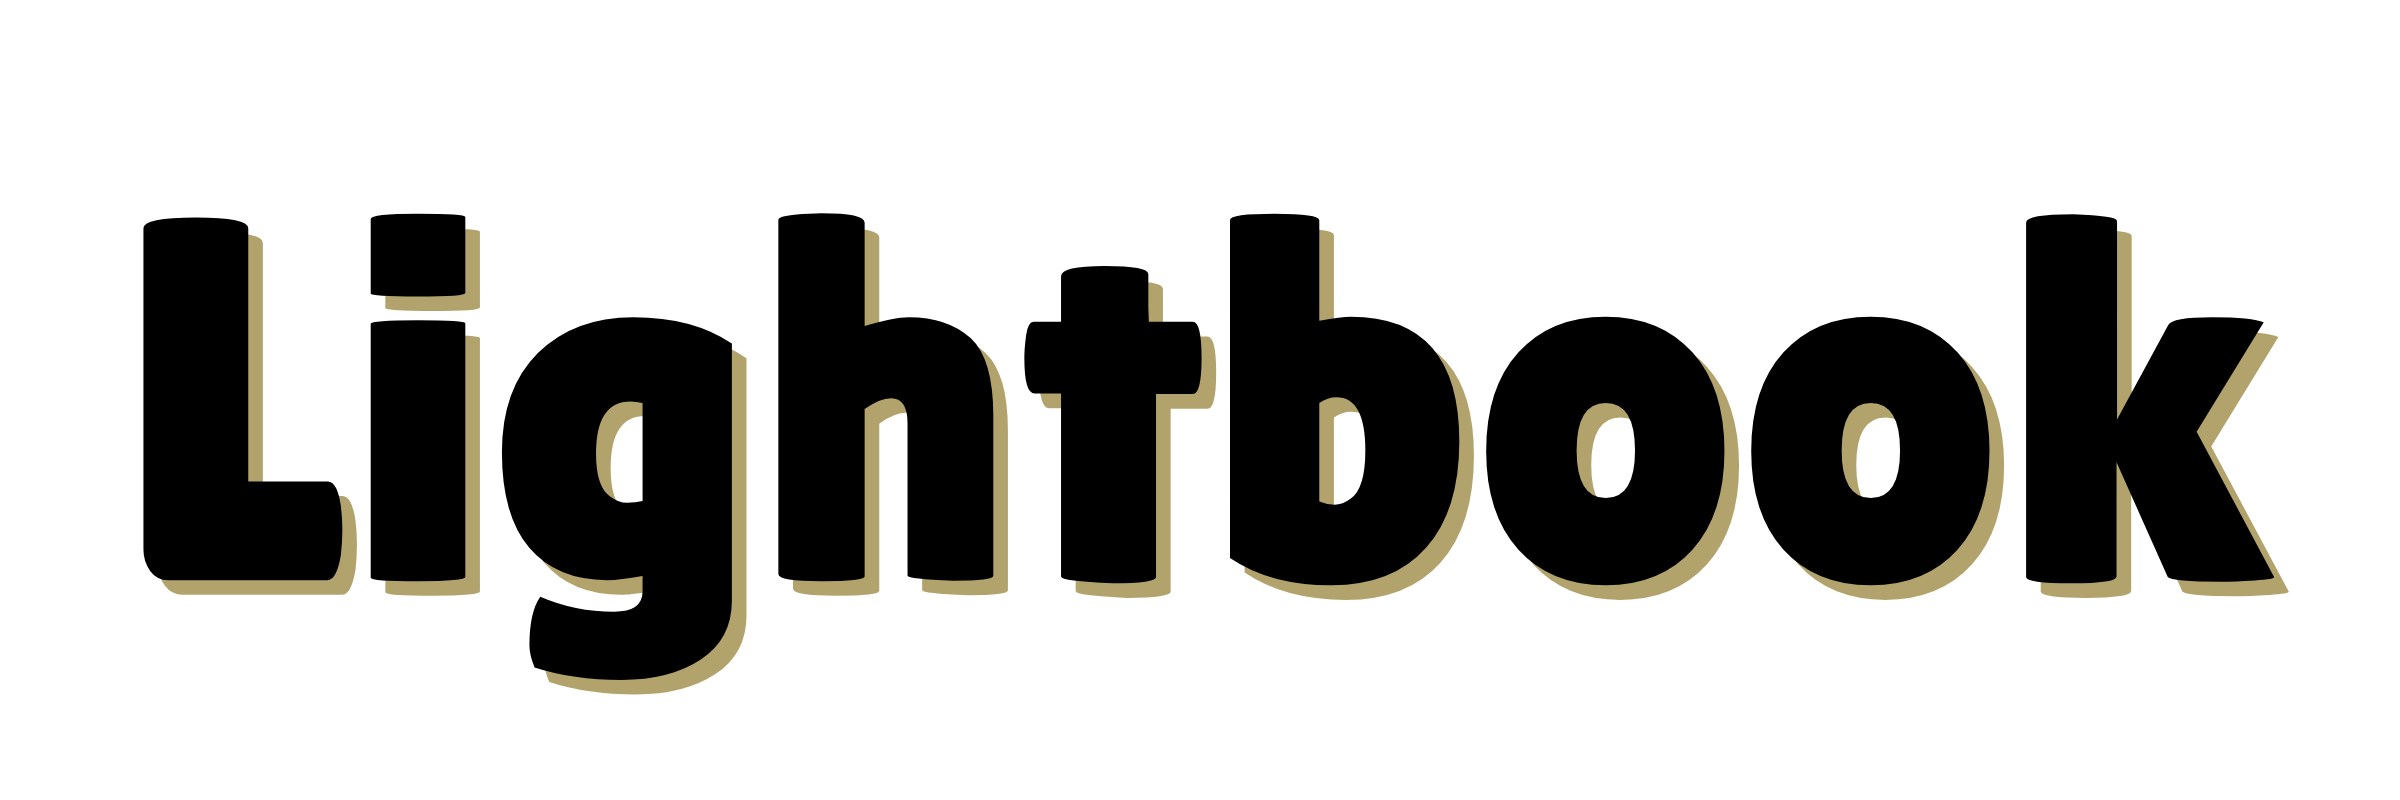
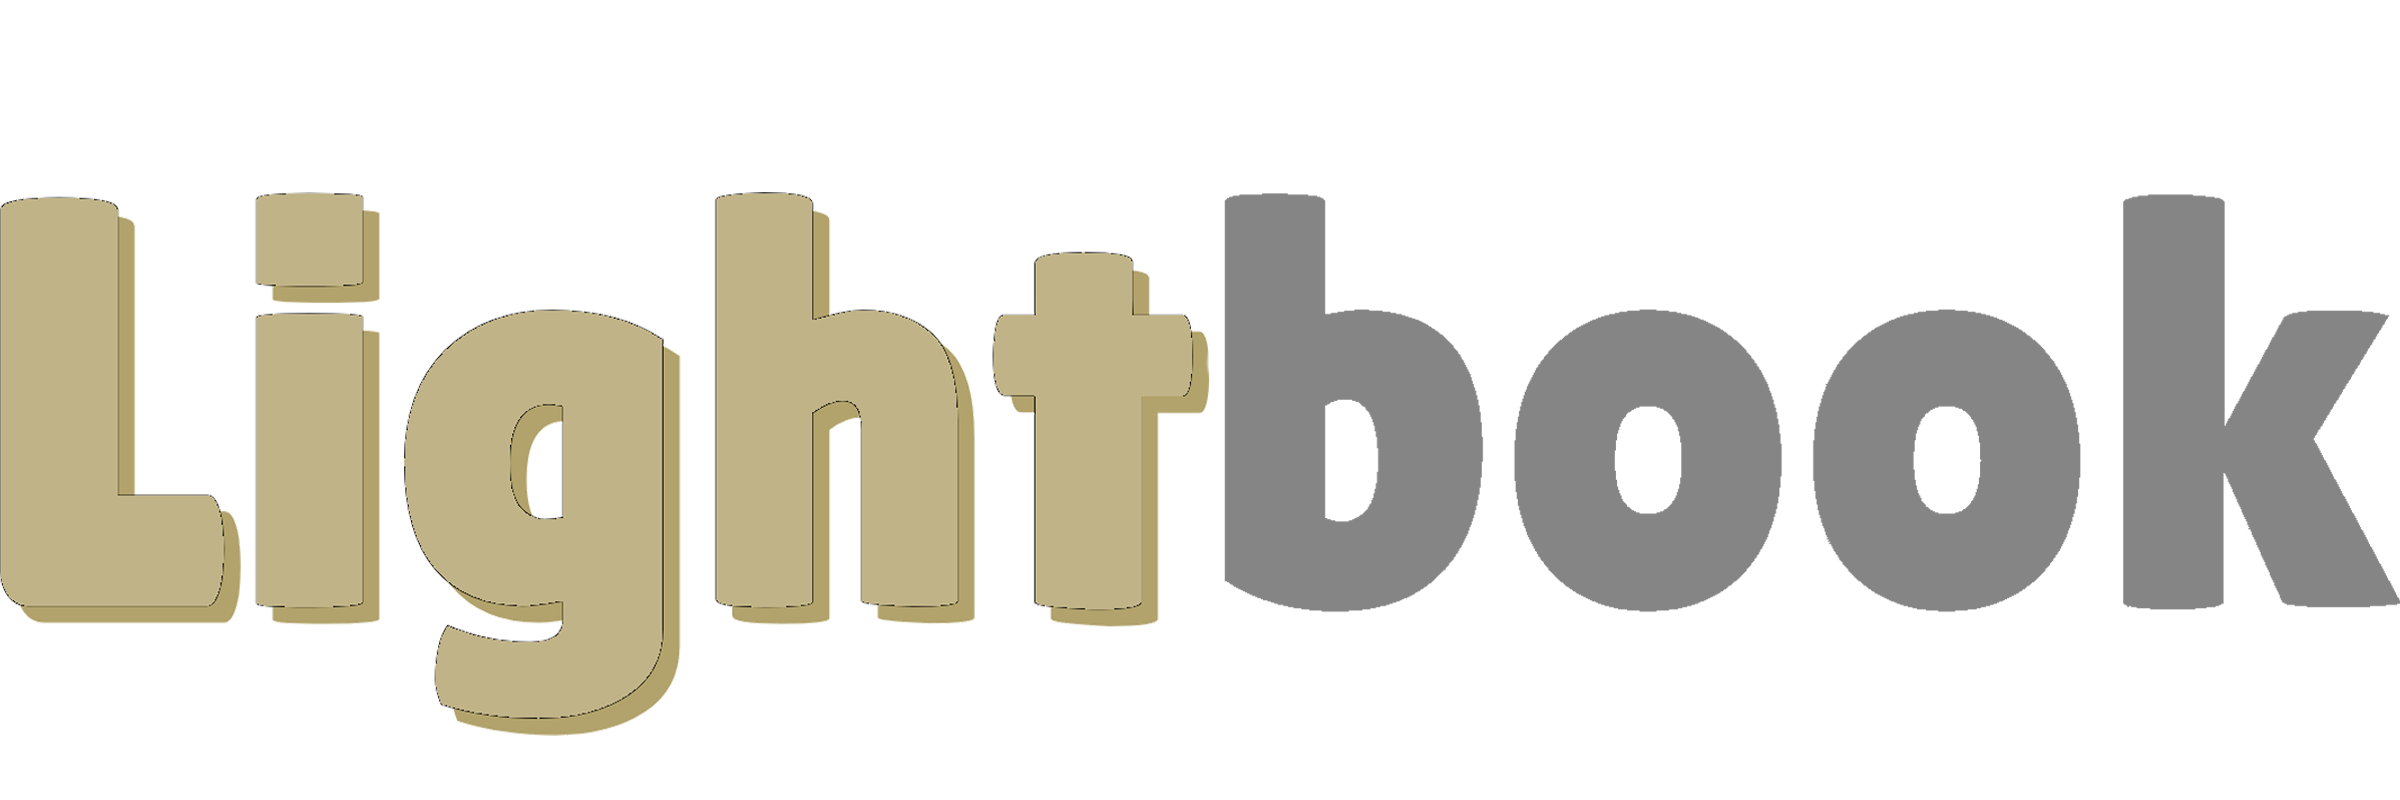
design improved

diff --git a/components/Checkout/CheckoutLogo/checkoutlogo.module.css b/components/Checkout/CheckoutLogo/checkoutlogo.module.css
@@ -11,7 +11,7 @@
 .logoDiv{
     position: relative;
    
-    height: var(--size-10);
+    height: var(--size-9-5);
     max-width: 1080px;
     width: calc(100% - var(--size-11));
     
